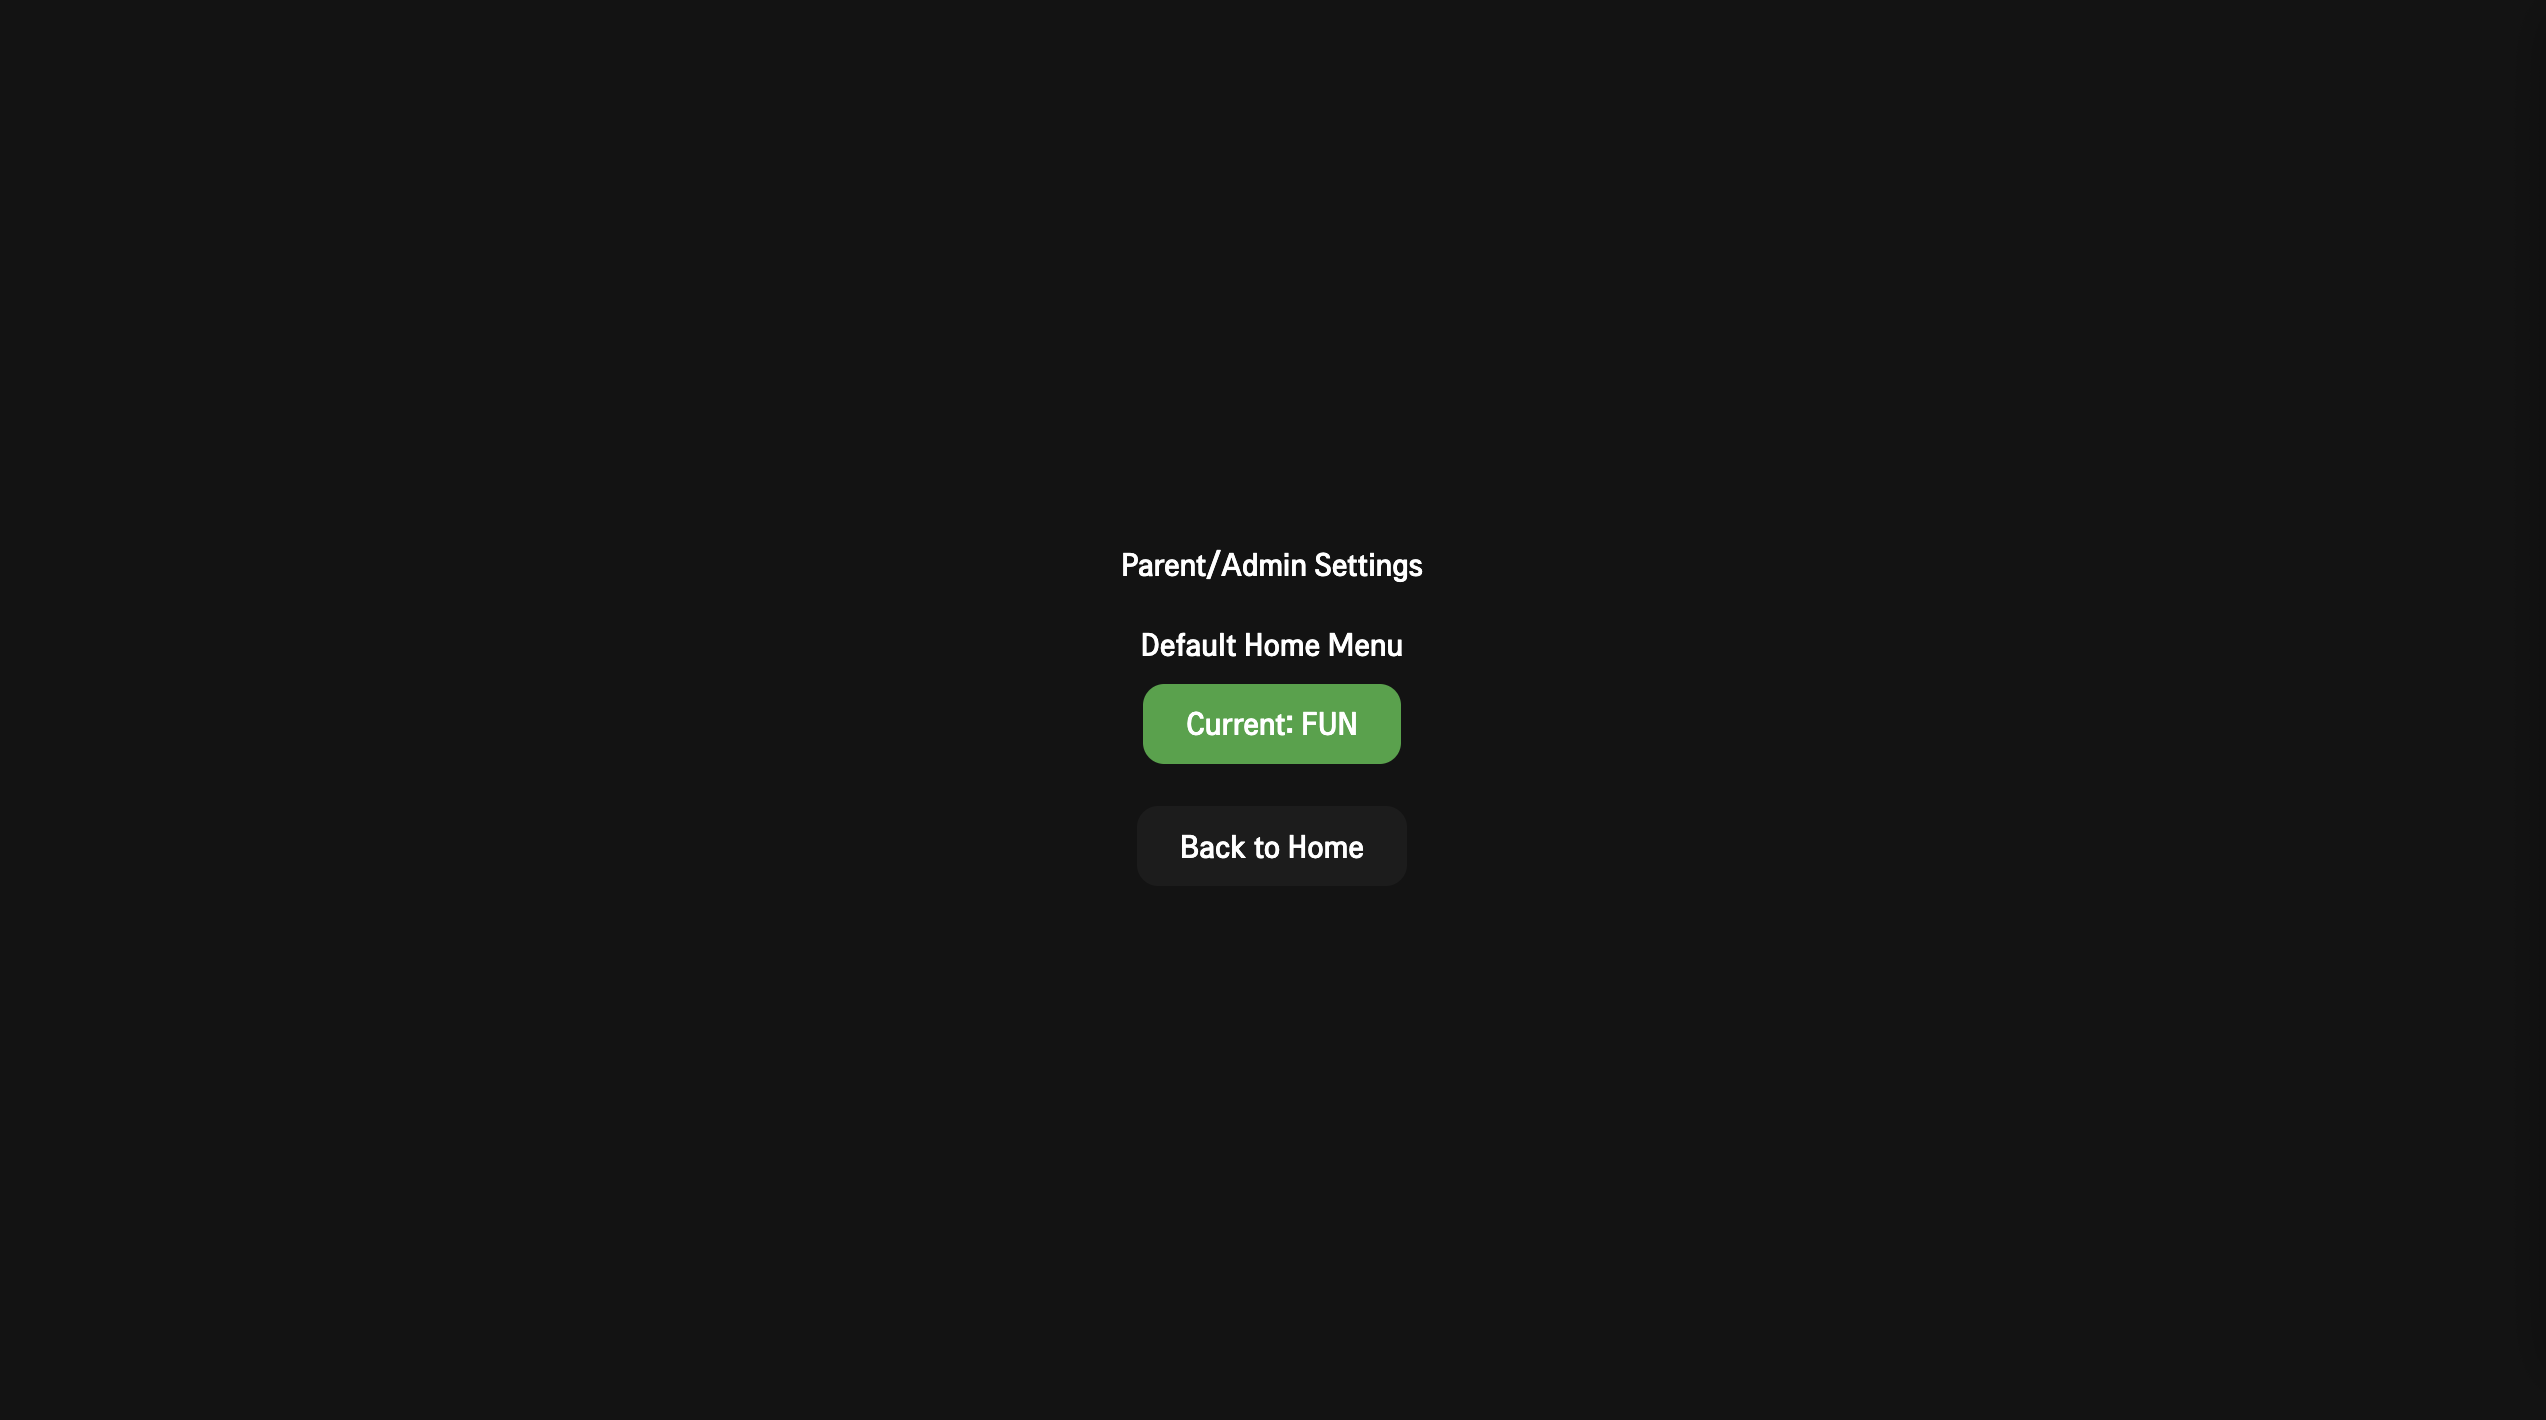
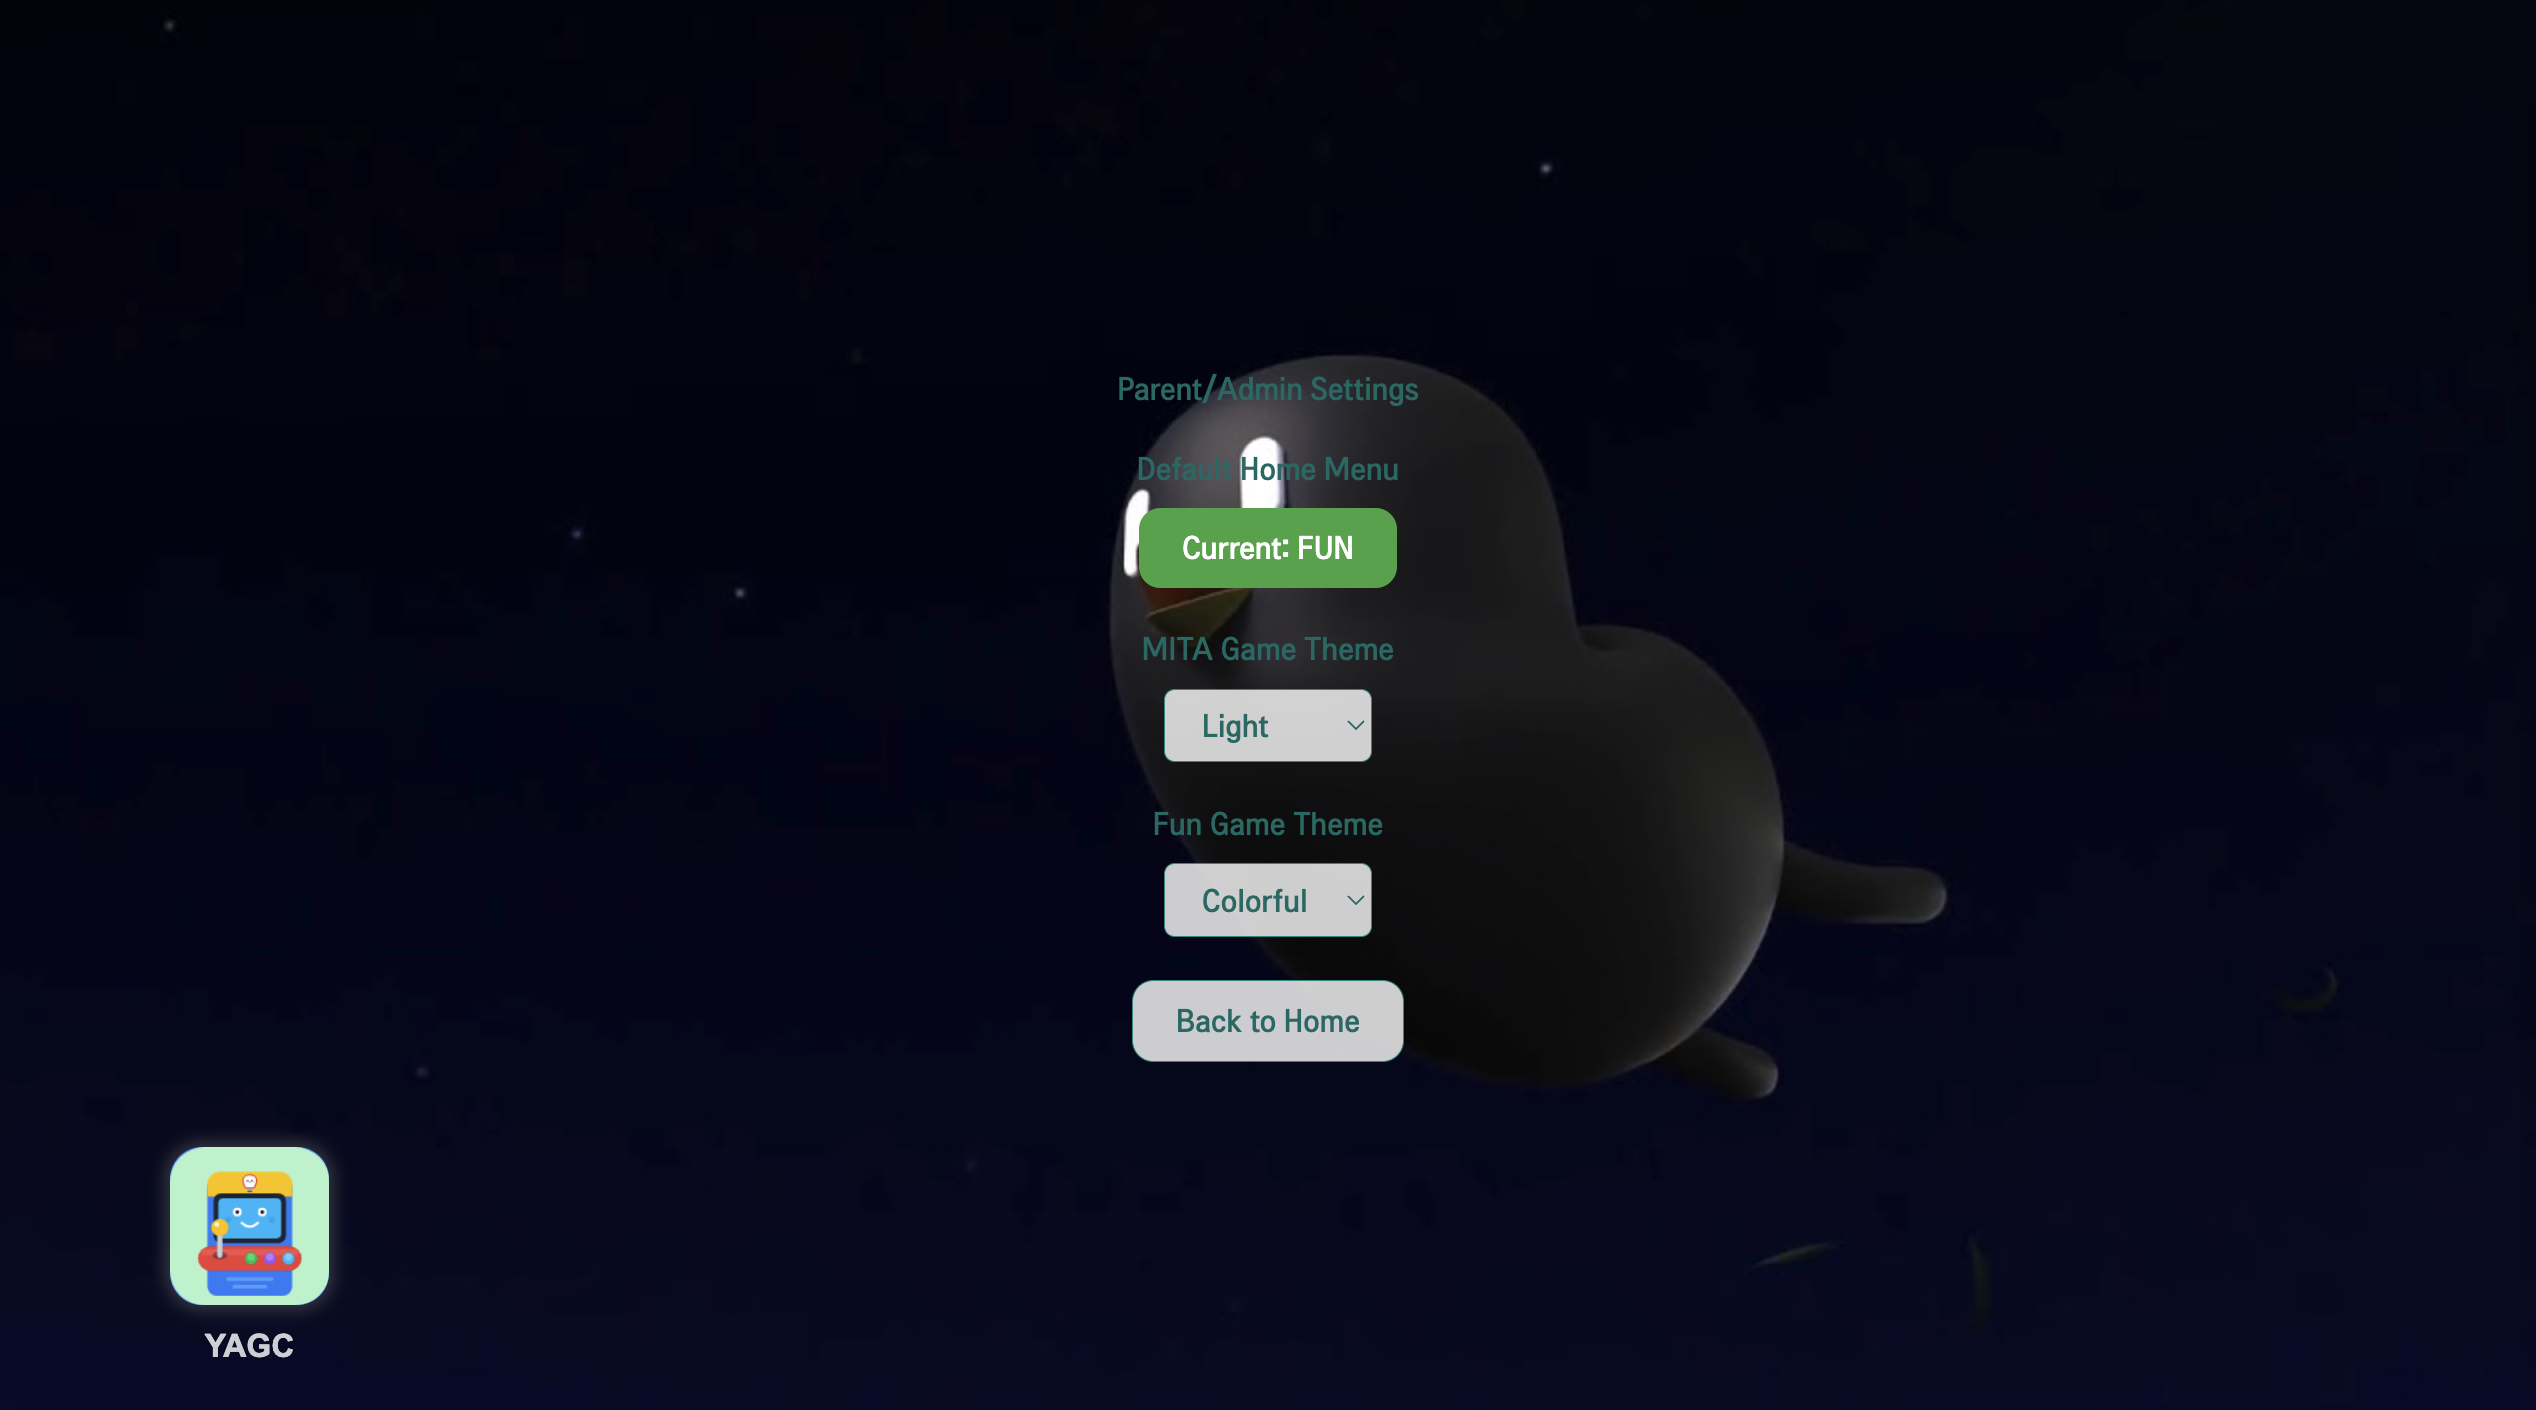
feat: add global theme switching and session-based menu state persistence

diff --git a/src/views/GlobalMenu.vue b/src/views/GlobalMenu.vue
@@ -4,16 +4,24 @@ import { useRouter, useRoute } from 'vue-router';
 import GameSelectionMenu from './GameSelectionMenu.vue';
 import MenuIcon from '../components/game/MenuIcon.vue';
 import { useProgressStore } from '../stores/useProgressStore';
+import { useSessionStore } from '../stores/useSessionStore';
 
 const router = useRouter();
 const route = useRoute();
 const progressStore = useProgressStore();
+const sessionStore = useSessionStore();
 
-// Initialize active tab from URL query if present, otherwise fallback to user preference
-const activeTab = ref<'mita' | 'fun'>((route.query.tab as 'mita' | 'fun') || progressStore.defaultHomeMenu);
+// Initialize active tab from URL query if present, otherwise fallback to session memory, otherwise user preference
+const activeTab = ref<'mita' | 'fun'>(
+  (route.query.tab as 'mita' | 'fun') || sessionStore.lastActiveTab || progressStore.defaultHomeMenu
+);
+
+// Always synchronize the session store with the resolved active tab
+sessionStore.lastActiveTab = activeTab.value;
 
 const switchTab = (tab: 'mita' | 'fun') => {
   activeTab.value = tab;
+  sessionStore.lastActiveTab = tab;
   router.replace({ query: { ...route.query, tab } });
 };
 

diff --git a/src/App.vue b/src/App.vue
@@ -1,6 +1,7 @@
 <script setup lang="ts">
 import { useRoute } from 'vue-router';
 import { useProgressStore } from './stores/useProgressStore';
+import { useSessionStore } from './stores/useSessionStore';
 
 const route = useRoute();
 const progressStore = useProgressStore();
@@ -12,6 +13,7 @@ watch(
   () => {
     const path = route.path || '';
     const tab = route.query.tab as string | undefined;
+    const sessionStore = useSessionStore();
 
     if (path.includes('/fun')) {
       document.documentElement.setAttribute('data-theme', progressStore.funTheme || 'colorful');
@@ -19,7 +21,7 @@ watch(
       document.documentElement.setAttribute('data-theme', progressStore.mitaTheme || 'dark');
     } else if (path === '/') {
       // GlobalMenu handles both tabs
-      const activeTab = tab || progressStore.defaultHomeMenu;
+      const activeTab = tab || sessionStore.lastActiveTab || progressStore.defaultHomeMenu;
       if (activeTab === 'fun') {
         document.documentElement.setAttribute('data-theme', progressStore.funTheme || 'colorful');
       } else {

diff --git a/src/stores/useSessionStore.ts b/src/stores/useSessionStore.ts
@@ -1,0 +1,8 @@
+import { defineStore } from 'pinia';
+
+export const useSessionStore = defineStore('session', {
+  state: () => ({
+    // Stores the last active tab in memory. Resets to null on app restart.
+    lastActiveTab: null as 'mita' | 'fun' | null,
+  })
+});

diff --git a/README.md b/README.md
@@ -60,6 +60,16 @@ Every game module in the clinical section shares:
 - **Web Speech API** — all instructions are spoken aloud; the child listens before interacting
 - **Persistent progress** — stats survive page reloads via `localStorage`
 
+### 🎨 Global Theme Switching
+
+YAGC supports a fully dynamic, independent global theme system. You can set a unique theme for the **MITA Games** curriculum (e.g., *Dark Mode* to reduce distractions) and a separate theme for **Fun Games** (e.g., *Colorful* or *Light*). 
+
+**How to set the theme:**
+1. Navigate to the **Settings** menu (gear icon on the home screen).
+2. Under "MITA Game Theme", select your preferred theme for clinical exercises (Light, Dark, or Colorful).
+3. Under "Fun Game Theme", select a theme for casual puzzles.
+4. Your choices are automatically persisted and instantly applied to both the game menus and inside every individual game board!
+
 ---
 
 ## Tech Stack
@@ -115,7 +125,7 @@ ares-launch "./dist" -s 24 \
 ```bash
 npm run build
 ares-package ./dist -o ./build --no-minify
-ares-install ./build/yagc_0.0.6_all.ipk -d <device-name>
+ares-install ./build/yagc_0.0.7_all.ipk -d <device-name>
 ares-launch yagc -d <device-name>
 ```
 
@@ -726,7 +736,7 @@ Advanced phases always generate distractors that match the target in N-1 feature
 
 ## Deployment to webOS
 
-The project uses GitHub Actions to automate the release process. Pushing a tag (e.g., `v0.0.6`) will automatically build the Vue app and package it into an `.ipk` file for download on the Releases page.
+The project uses GitHub Actions to automate the release process. Pushing a tag (e.g., `v0.0.7`) will automatically build the Vue app and package it into an `.ipk` file for download on the Releases page.
 
 ### Simulator
 
@@ -747,7 +757,7 @@ npm run build
 ares-package ./dist -o ./build/
 
 # 3. Install & launch
-ares-install ./build/yagc_0.0.6_all.ipk -d <device-name>
+ares-install ./build/yagc_0.0.7_all.ipk -d <device-name>
 ares-launch yagc -d <device-name>
 ```
 

diff --git a/CHANGELOG.md b/CHANGELOG.md
@@ -5,6 +5,14 @@ All notable changes to this project will be documented in this file.
 The format is based on [Keep a Changelog](https://keepachangelog.com/en/1.0.0/),
 and this project adheres to [Semantic Versioning](https://semver.org/spec/v2.0.0.html).
 
+## [0.0.7] - 01-06-2026
+
+### Added
+- **Global Theme Switching:** Introduced a fully dynamic global theme system. The app now supports independent, switchable themes for MITA Games (e.g., Light, Dark, Colorful) and Fun Games, which seamlessly synchronize across the entire application interface and inside individual game boards.
+
+### Fixed
+- **Menu Navigation:** The app now remembers which menu you were looking at (MITA or Fun Games) when you play a game. When you click "Back to Menu", it will return you to exactly where you left off, rather than always jumping back to the default home screen.
+
 ## [0.0.6] - 01-06-2026
 
 ### Added
